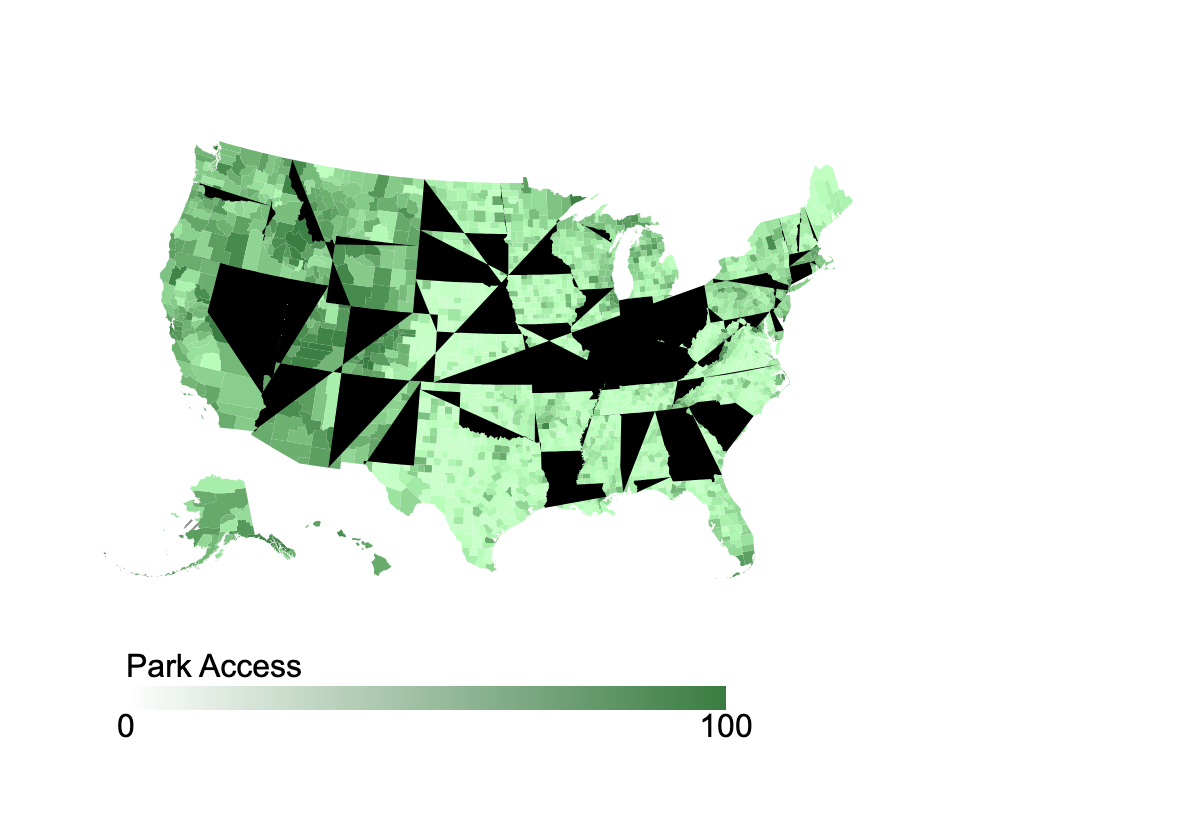
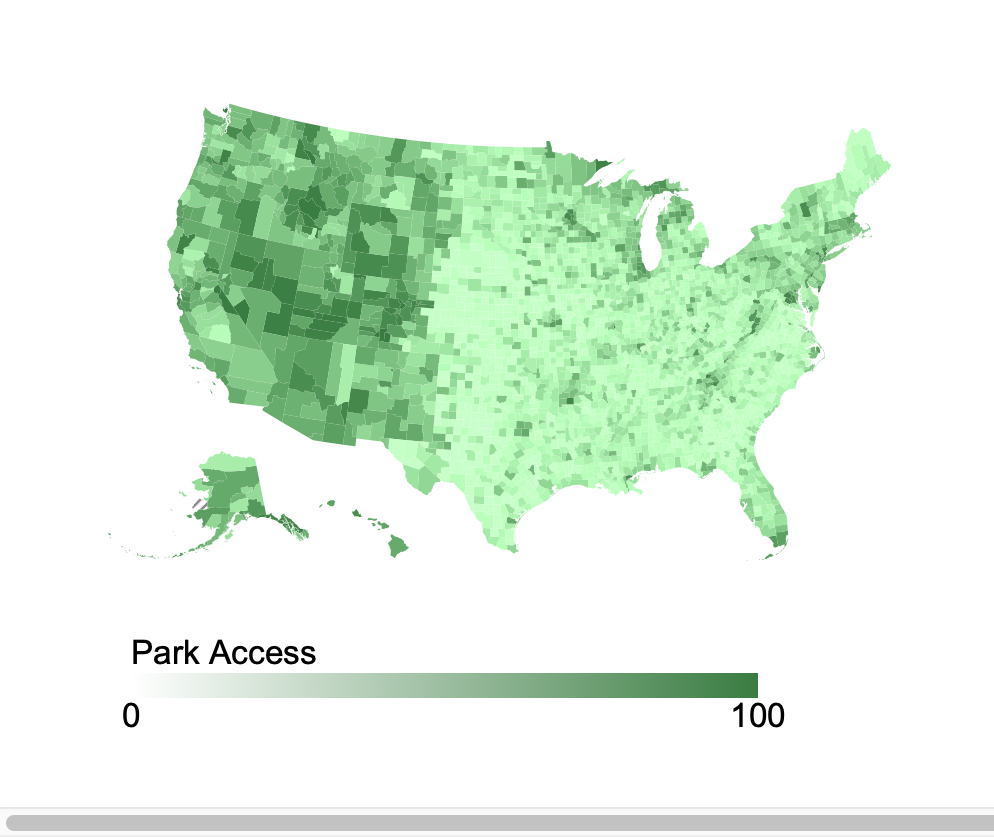
fixed chlropleth

diff --git a/index.html b/index.html
@@ -131,7 +131,7 @@
     <br><br>
 
     <h3>Spatial visualization via Choropleth Map</h3>
-    <img src="chloropleth1.png" alt="Image Description" width="800" height="500">
+    <img src="chlropleth.png" alt="Image Description" width="800" height="500">
     <br><br>
     <h2> Interesting Findings from the Application: </h2>
     <br><br>
